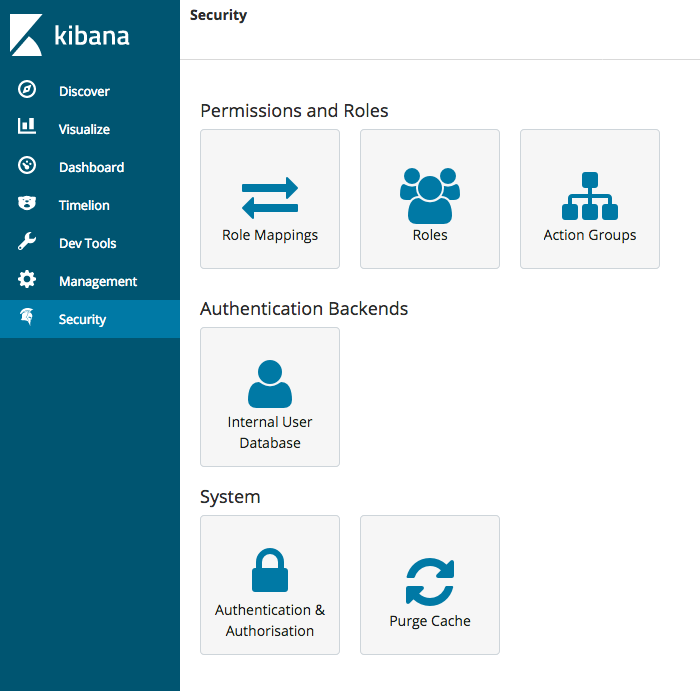
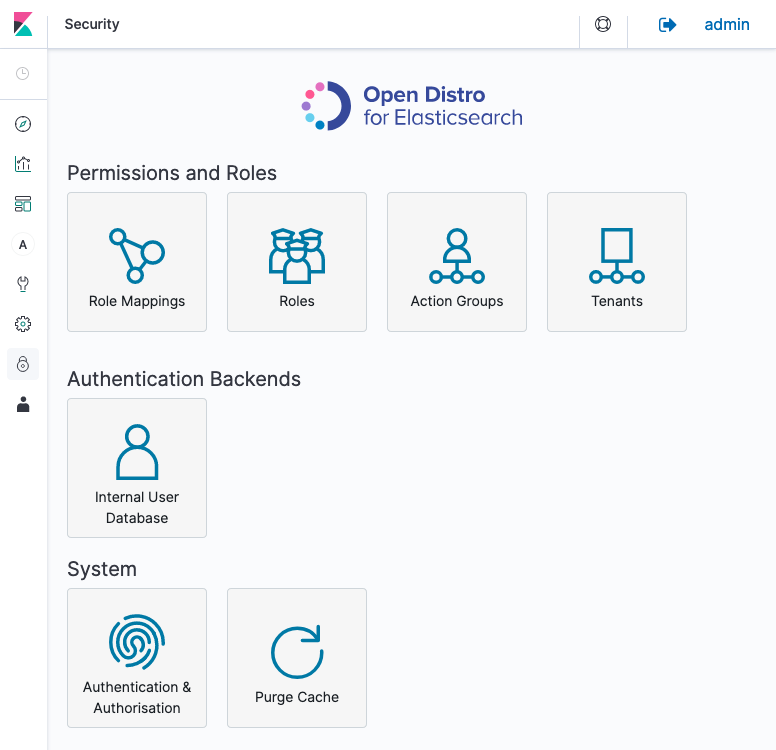
New screenshots and some UI label changes.

diff --git a/docs/security-access-control/document-level-security.md b/docs/security-access-control/document-level-security.md
@@ -7,14 +7,14 @@ nav_order: 2
 
 # Document-level security
 
-Document-level security lets you restrict a role to a subset of documents in an index. The easiest way to get started with document- and field-level security is open Kibana and choose **Security**. Then choose **Roles**, create a new role, and choose **DLS/FLS**.
+Document-level security lets you restrict a role to a subset of documents in an index. The easiest way to get started with document- and field-level security is open Kibana and choose **Security**. Then choose **Roles**, create a new role, and choose **Index Permissions**.
 
 ![Document- and field-level security screen in Kibana](../../images/security-dls.png)
 
 
 ## Simple roles
 
-Document-level security uses the Elasticsearch query DSL to define which documents a role grants access to. In Kibana, choose an index and provide a query in the **DLS/FLS** tab:
+Document-level security uses the Elasticsearch query DSL to define which documents a role grants access to. In Kibana, choose an index pattern and provide a query in the **Document Level Security Query** section:
 
 ```json
 {

diff --git a/docs/security-access-control/field-level-security.md b/docs/security-access-control/field-level-security.md
@@ -9,7 +9,7 @@ nav_order: 3
 
 Field-level security lets you control which document fields a user can see. Just like [document-level security](../document-level-security/), you control access by index within a role.
 
-The easiest way to get started with document- and field-level security is open Kibana and choose **Security**. Then choose **Roles**, create a new role, and choose **DLS/FLS**.
+The easiest way to get started with document- and field-level security is open Kibana and choose **Security**. Then choose **Roles**, create a new role, and choose **Index Permissions**.
 
 ---
 
@@ -73,8 +73,8 @@ You can specify field-level security settings using Kibana, `roles.yml`, and the
 
 ### Kibana
 
-1. Choose a role and **DLS/FLS**.
-1. Choose an index.
+1. Choose a role and **Index Permissions**.
+1. Choose an index pattern.
 1. Under **Include or exclude fields**, use the drop-down to select your preferred option. Then specify one or more fields and **Save Role Definition**.
 
 
